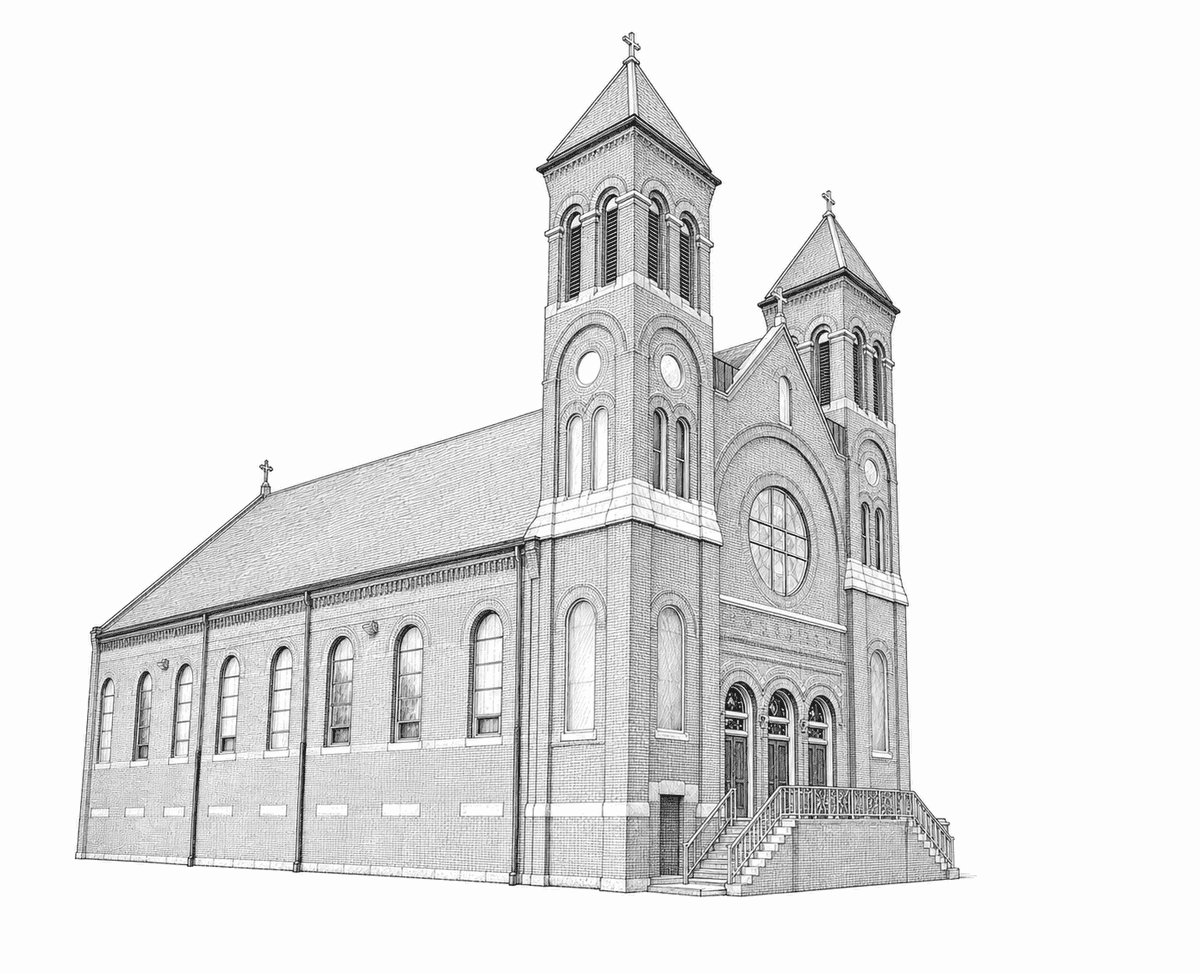
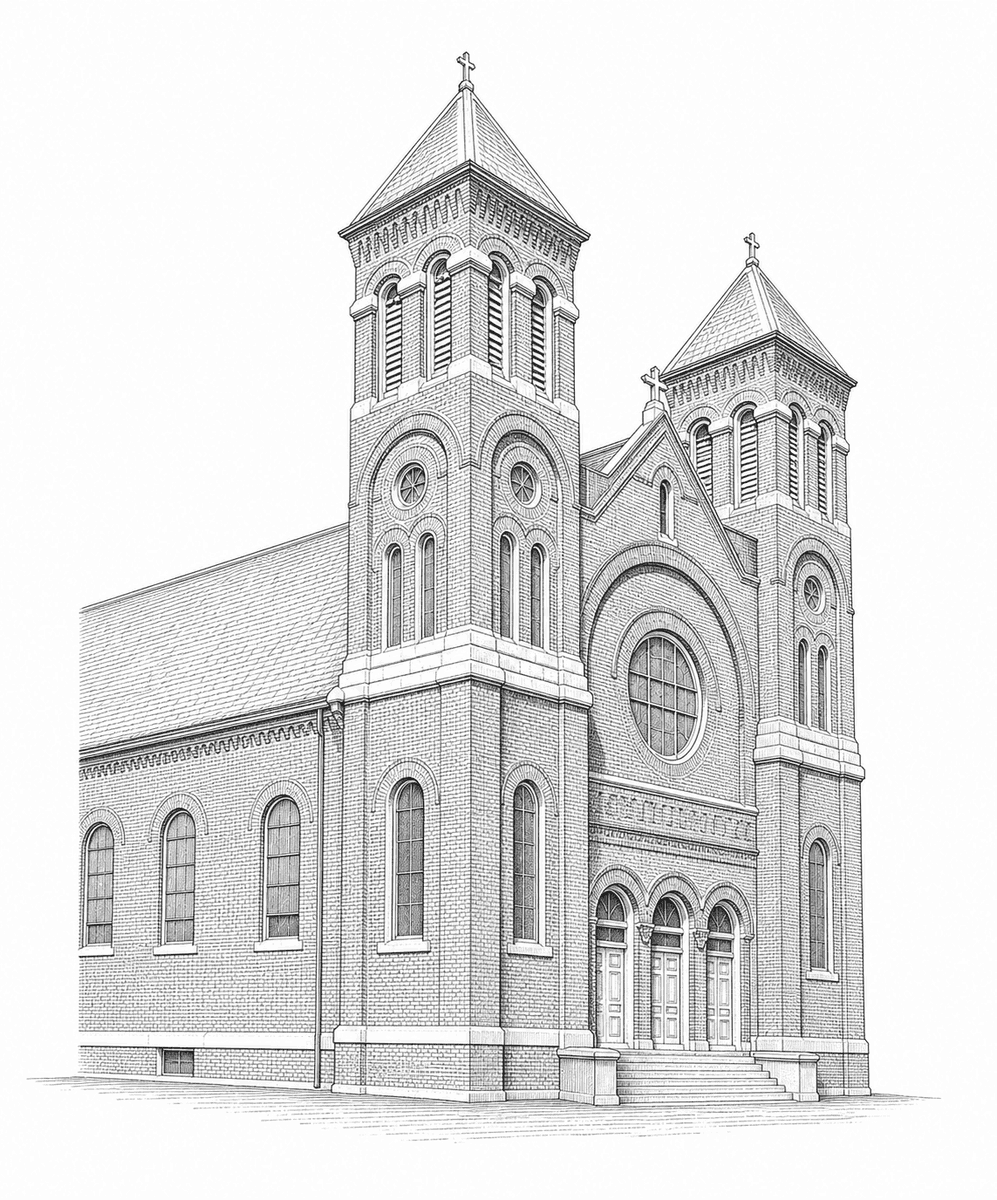
Publish approved Lukas parish line art

diff --git a/app/parishes/[slug]/page.tsx b/app/parishes/[slug]/page.tsx
@@ -101,6 +101,7 @@ type WatchPhoto = {
   attribution?: string;
   license?: string;
   archiveUrl?: string;
+  evidenceUrl?: string;
   rights?: string;
 };
 
@@ -386,8 +387,11 @@ export default async function ParishPage({
           attribution: watchPhoto.attribution ?? "",
           license: watchPhoto.license,
           archiveUrl: watchPhoto.archiveUrl,
+          evidenceUrl: watchPhoto.evidenceUrl,
         }
       : null;
+  const photoSourceUrl = photo?.evidenceUrl ?? photo?.archiveUrl;
+  const isLineDrawing = photo?.src.endsWith("-line-drawing.png") ?? false;
 
   const caseSources = caseRecord
     ? [
@@ -598,11 +602,28 @@ export default async function ParishPage({
                   width={640}
                   height={427}
                   loading="eager"
-                  className="h-auto w-full object-cover"
+                  className={
+                    isLineDrawing
+                      ? "aspect-[4/3] w-full bg-[#fffdf9] object-contain p-3"
+                      : "h-auto w-full object-cover"
+                  }
                 />
                 <figcaption className="px-3 py-1.5 text-xs text-muted">
                   {photo.attribution}
                   {photo.license && <span> · {photo.license}</span>}
+                  {photoSourceUrl && (
+                    <>
+                      <span> · </span>
+                      <a
+                        href={photoSourceUrl}
+                        target="_blank"
+                        rel="noopener noreferrer"
+                        className="underline underline-offset-2 hover:text-accent"
+                      >
+                        Source
+                      </a>
+                    </>
+                  )}
                 </figcaption>
               </figure>
             )}

diff --git a/data/PROVENANCE.md b/data/PROVENANCE.md
@@ -89,6 +89,10 @@ Locked figures unaffected; build validation passed before and after application.
 - **Lukas book (Algis Lukas, *Lietuvių kultūrinis paveldas Amerikoje*, Lithuanian American Community Inc., 2009, ISBN 978-0-615-26575-9):** 26 church exteriors photographed from the Žiburio archive copy (archive record 20260725_1785004329786) are cropped and staged **outside the repository** awaiting the LAC Cultural Affairs Council's permission; registry entries hold their metadata so they light up the moment permission is granted.
 - Permission request drafts: `data/candidates/photo-permission-requests-2026-07-26.md`. Clean-source replacements to pursue in parallel: own photography, HABS/Library of Congress (public domain), pre-1931 US postcards (public domain), Wikimedia Commons open licenses with attribution.
 
+## 2026-07-30 — Lukas line-art permission confirmed
+
+Vilija confirmed permission to publish the line-art adaptations derived from the parish exteriors in Algis Lukas, *Lietuvių kultūrinis paveldas Amerikoje* (2009). Nineteen book-derived drawings moved through the photo-rights gate as `permission_granted`; seven additional book subjects already had cleared drawings made from public-domain, open-license, or parish-supplied sources. Together, all 26 parish subjects in the book sequence now have a cleared line-art portrait. The original book photographs remain outside `public/`; the site distributes only the approved adaptations, each attributed to the exact book page and linked to the Žiburio archive item. The machine-readable coverage and source decision for every subject live in `data/candidates/lukas-line-drawing-manifest-2026-07-30.json`.
+
 ## 2026-07-27 — Dataset refresh + relock (Revision 2; issue #17)
 
 Upstream-first per the issue #17 runbook: culturenet-brain PR #448 refreshed the canonical `parishes.csv` and issued **locked-figures Revision 2 (2026-07-27)**; this repo then re-snapshotted `data/parishes.csv` byte-identically and pointed `scripts/build-data.mjs` (`lockedAt`, header reference) at Revision 2. The expected figures in `build-data.mjs` were already numerically at the Revision 2 values (relocked site-side in `0448f6a`); this PR makes upstream the source of record again. Guard chain and full `next build` green; classification audit after re-snapshot: **CONTRADICTION 0 / UNVERIFIED 0 / STALE-TEXT 0** (East St. Louis cleared).
